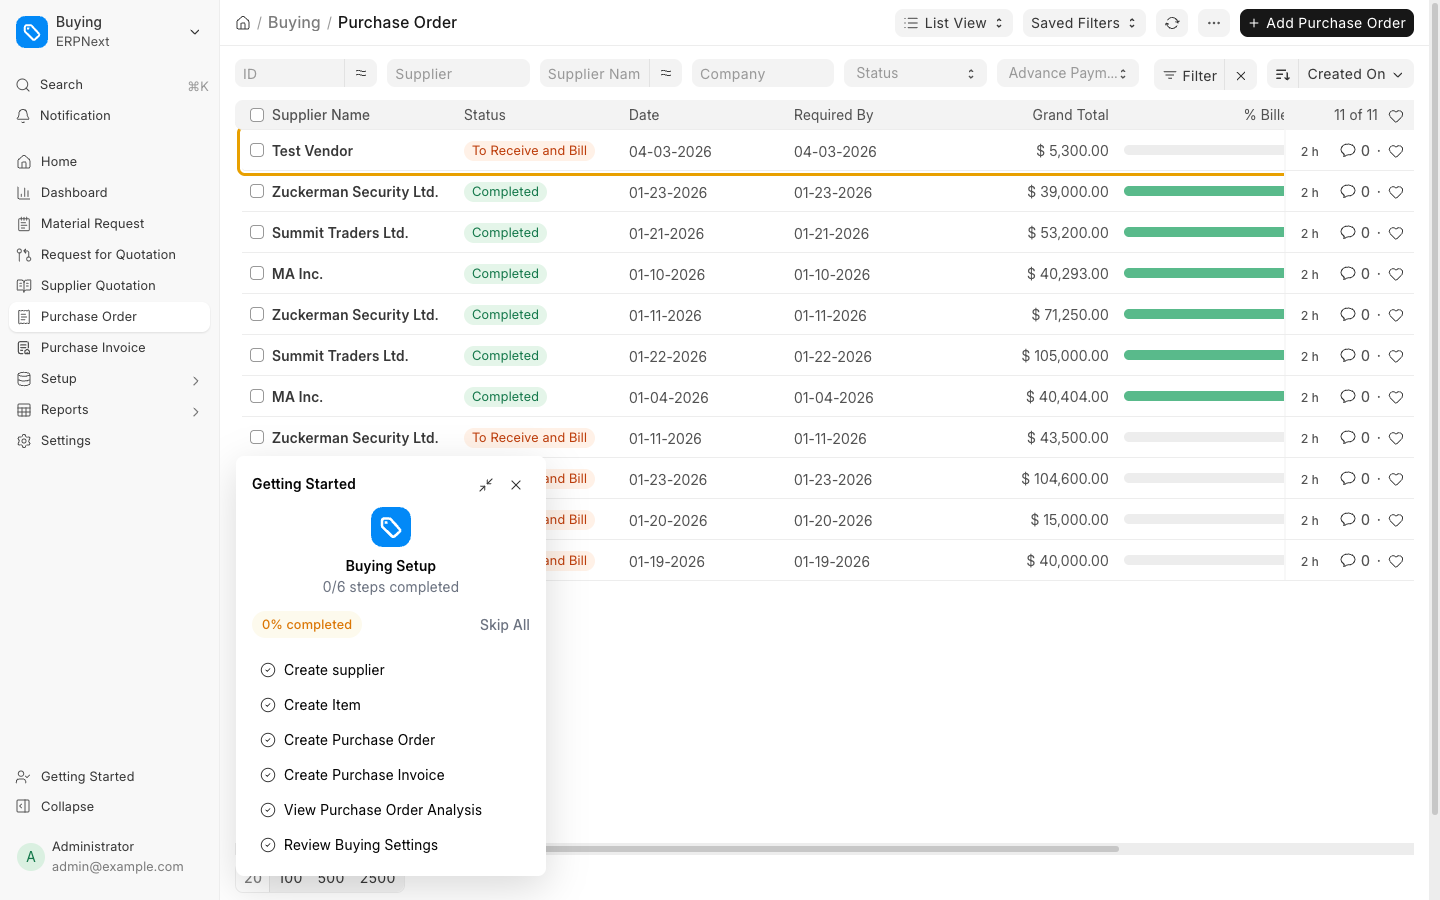
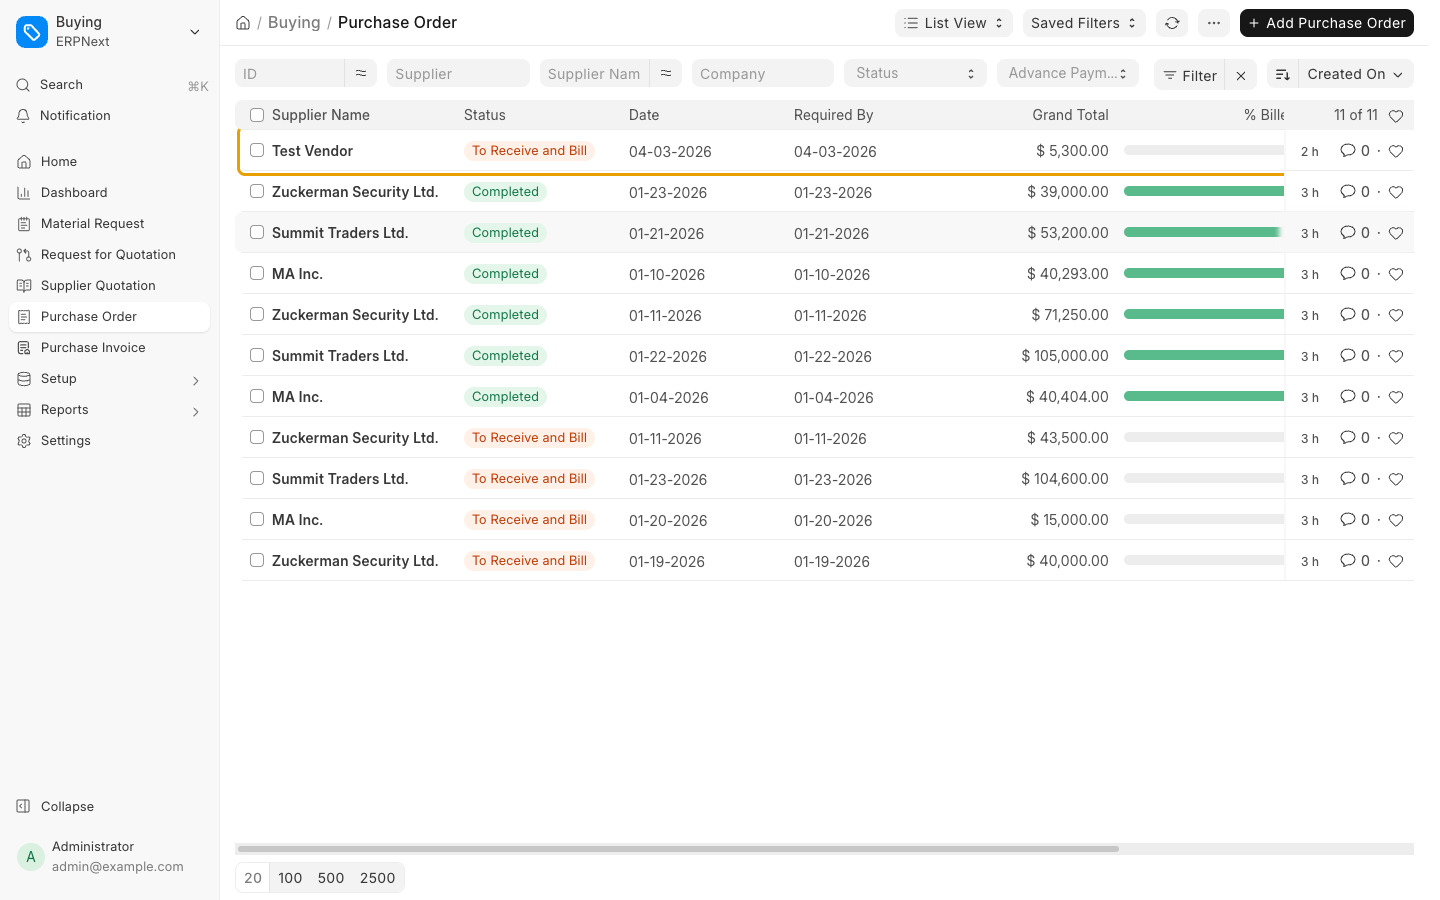
Kill Getting Started popup and recapture clean PR screenshots
- capture_gr.py: 3-layer onboarding kill — System Settings API toggle,
  bulk-skip all 30 Onboarding Step records, CSS display:none init script
  that persists across Playwright navigations. Fixes ERPNext v16 regression
  where the toggle alone doesn't prevent popup in fresh browser sessions.
- capture_gr.py: highlight match logging (🎯/⚠) for selector debugging
- capture_config.yaml: broader highlight selectors for po_detail Create btn
- screens/: recaptured with popup gone — full items table now visible

diff --git a/poc/capture/capture_gr.py b/poc/capture/capture_gr.py
@@ -49,13 +49,15 @@ def log(msg: str):
 
 
 def dismiss_popups(page):
-    """Close any 'Getting Started' or tour popups that block interaction."""
+    """Close any modal dialogs that block interaction.
+
+    The 'Getting Started' / onboarding widget should be disabled in ERPNext
+    admin settings rather than dismissed at capture time. This function only
+    handles unexpected modals that might still appear.
+    """
     selectors = [
-        ".getting-started .close",
-        ".widget-head .close",
         ".modal-dialog .close",
         "[data-dismiss='modal']",
-        "button.close",
     ]
     for sel in selectors:
         try:
@@ -91,22 +93,33 @@ def scroll_to(page, selector: str | None):
 
 
 def apply_highlight(page, selector: str | None):
-    """Inject a temporary amber outline onto a form element."""
+    """Inject a temporary amber outline onto a form element.
+
+    The selector string can be a CSS selector (comma-separated fallbacks work
+    natively with querySelector).  If no match is found the function logs a
+    warning so the capture log shows which selectors need adjusting.
+    """
     if not selector:
         return
     try:
-        page.evaluate(f"""
+        matched = page.evaluate(f"""
             (() => {{
                 const el = document.querySelector({repr(selector)});
                 if (el) {{
                     el.style.outline = '3px solid #E8A000';
                     el.style.outlineOffset = '2px';
                     el.style.borderRadius = '3px';
+                    return el.tagName + '.' + (el.className || '').toString().slice(0, 60);
                 }}
+                return null;
             }})()
         """)
-    except Exception:
-        pass
+        if matched:
+            log(f"  🎯  Highlight matched: {matched}")
+        else:
+            log(f"  ⚠  No element matched highlight selector: {selector}")
+    except Exception as e:
+        log(f"  ⚠  Highlight error: {e}")
 
 
 def remove_highlights(page):
@@ -150,6 +163,115 @@ def login(page, base_url: str, username: str, password: str):
         log("  First-login password prompt detected — skipping (use --headed to handle manually)")
 
     log("  ✓ Logged in")
+
+
+# ─────────────────────────────────────────────────────────────────────────────
+# Disable onboarding (Getting Started popup)
+# ─────────────────────────────────────────────────────────────────────────────
+
+def disable_onboarding(page, base_url: str):
+    """Kill the Getting Started / onboarding popup in ERPNext v16.
+
+    ERPNext v16 has a known regression where the System Settings toggle
+    alone doesn't prevent the popup from reappearing in fresh browser
+    sessions (like Playwright contexts).  This function hits it from
+    three angles:
+
+      1. System Settings — set enable_onboarding = 0 via Frappe API
+      2. Module onboarding — mark all Onboarding Step records as
+         skipped/complete so the per-module widget has nothing to show
+      3. CSS injection — register a page-level style that hides any
+         onboarding widget that still leaks through (belt and suspenders)
+
+    The CSS injection is added via page.add_init_script so it persists
+    across navigations within this Playwright context.
+    """
+    log("Killing onboarding popup (3-layer approach)...")
+
+    # ── Layer 1: System Settings toggle ──────────────────────────────────
+    page.goto(f"{base_url}/desk/system-settings")
+    wait_for_page(page, 1500)
+    try:
+        result = page.evaluate("""
+            (async () => {
+                await frappe.call({
+                    method: 'frappe.client.set_value',
+                    args: {
+                        doctype: 'System Settings',
+                        name: 'System Settings',
+                        fieldname: 'enable_onboarding',
+                        value: 0
+                    }
+                });
+                return 'ok';
+            })()
+        """)
+        log("  ✓ Layer 1: enable_onboarding set to 0")
+    except Exception as e:
+        log(f"  ⚠  Layer 1 failed: {e}")
+
+    # ── Layer 2: Bulk-skip all Onboarding Step records ───────────────────
+    try:
+        skipped = page.evaluate("""
+            (async () => {
+                const steps = await frappe.call({
+                    method: 'frappe.client.get_list',
+                    args: {
+                        doctype: 'Onboarding Step',
+                        filters: { is_skipped: 0, is_complete: 0 },
+                        fields: ['name'],
+                        limit_page_length: 0
+                    }
+                });
+                const names = (steps.message || steps || []).map(s => s.name);
+                for (const name of names) {
+                    await frappe.call({
+                        method: 'frappe.client.set_value',
+                        args: {
+                            doctype: 'Onboarding Step',
+                            name: name,
+                            fieldname: 'is_skipped',
+                            value: 1
+                        }
+                    });
+                }
+                return names.length;
+            })()
+        """)
+        log(f"  ✓ Layer 2: {skipped} onboarding step(s) marked skipped")
+    except Exception as e:
+        log(f"  ⚠  Layer 2 failed: {e}")
+
+    # ── Layer 3: CSS kill switch — persists across navigations ───────────
+    page.add_init_script("""
+        (() => {
+            const style = document.createElement('style');
+            style.textContent = `
+                .onboarding-widget,
+                .onboarding-widget-box,
+                .getting-started,
+                .widget.onboarding-widget-box,
+                [data-widget-name*="onboarding" i],
+                [data-widget-name*="getting-started" i],
+                [data-widget-name*="setup" i] {
+                    display: none !important;
+                    visibility: hidden !important;
+                    height: 0 !important;
+                    overflow: hidden !important;
+                }
+            `;
+            if (document.head) {
+                document.head.appendChild(style);
+            } else {
+                document.addEventListener('DOMContentLoaded', () => {
+                    document.head.appendChild(style);
+                });
+            }
+        })();
+    """)
+    log("  ✓ Layer 3: CSS kill switch injected for all future navigations")
+
+    page.wait_for_timeout(300)
 
 
 # ─────────────────────────────────────────────────────────────────────────────
@@ -237,6 +359,9 @@ def run_capture(config: dict, po_number: str, out_dir: Path, headed: bool, slow_
 
         # ── Login ────────────────────────────────────────────────────────────
         login(page, base_url, erpnext_cfg["username"], erpnext_cfg["password"])
+
+        # ── Disable onboarding so the Getting Started popup never appears ──
+        disable_onboarding(page, base_url)
 
         # ── Screen loop ──────────────────────────────────────────────────────
         # The PR draft is created inline when the screen loop hits the
